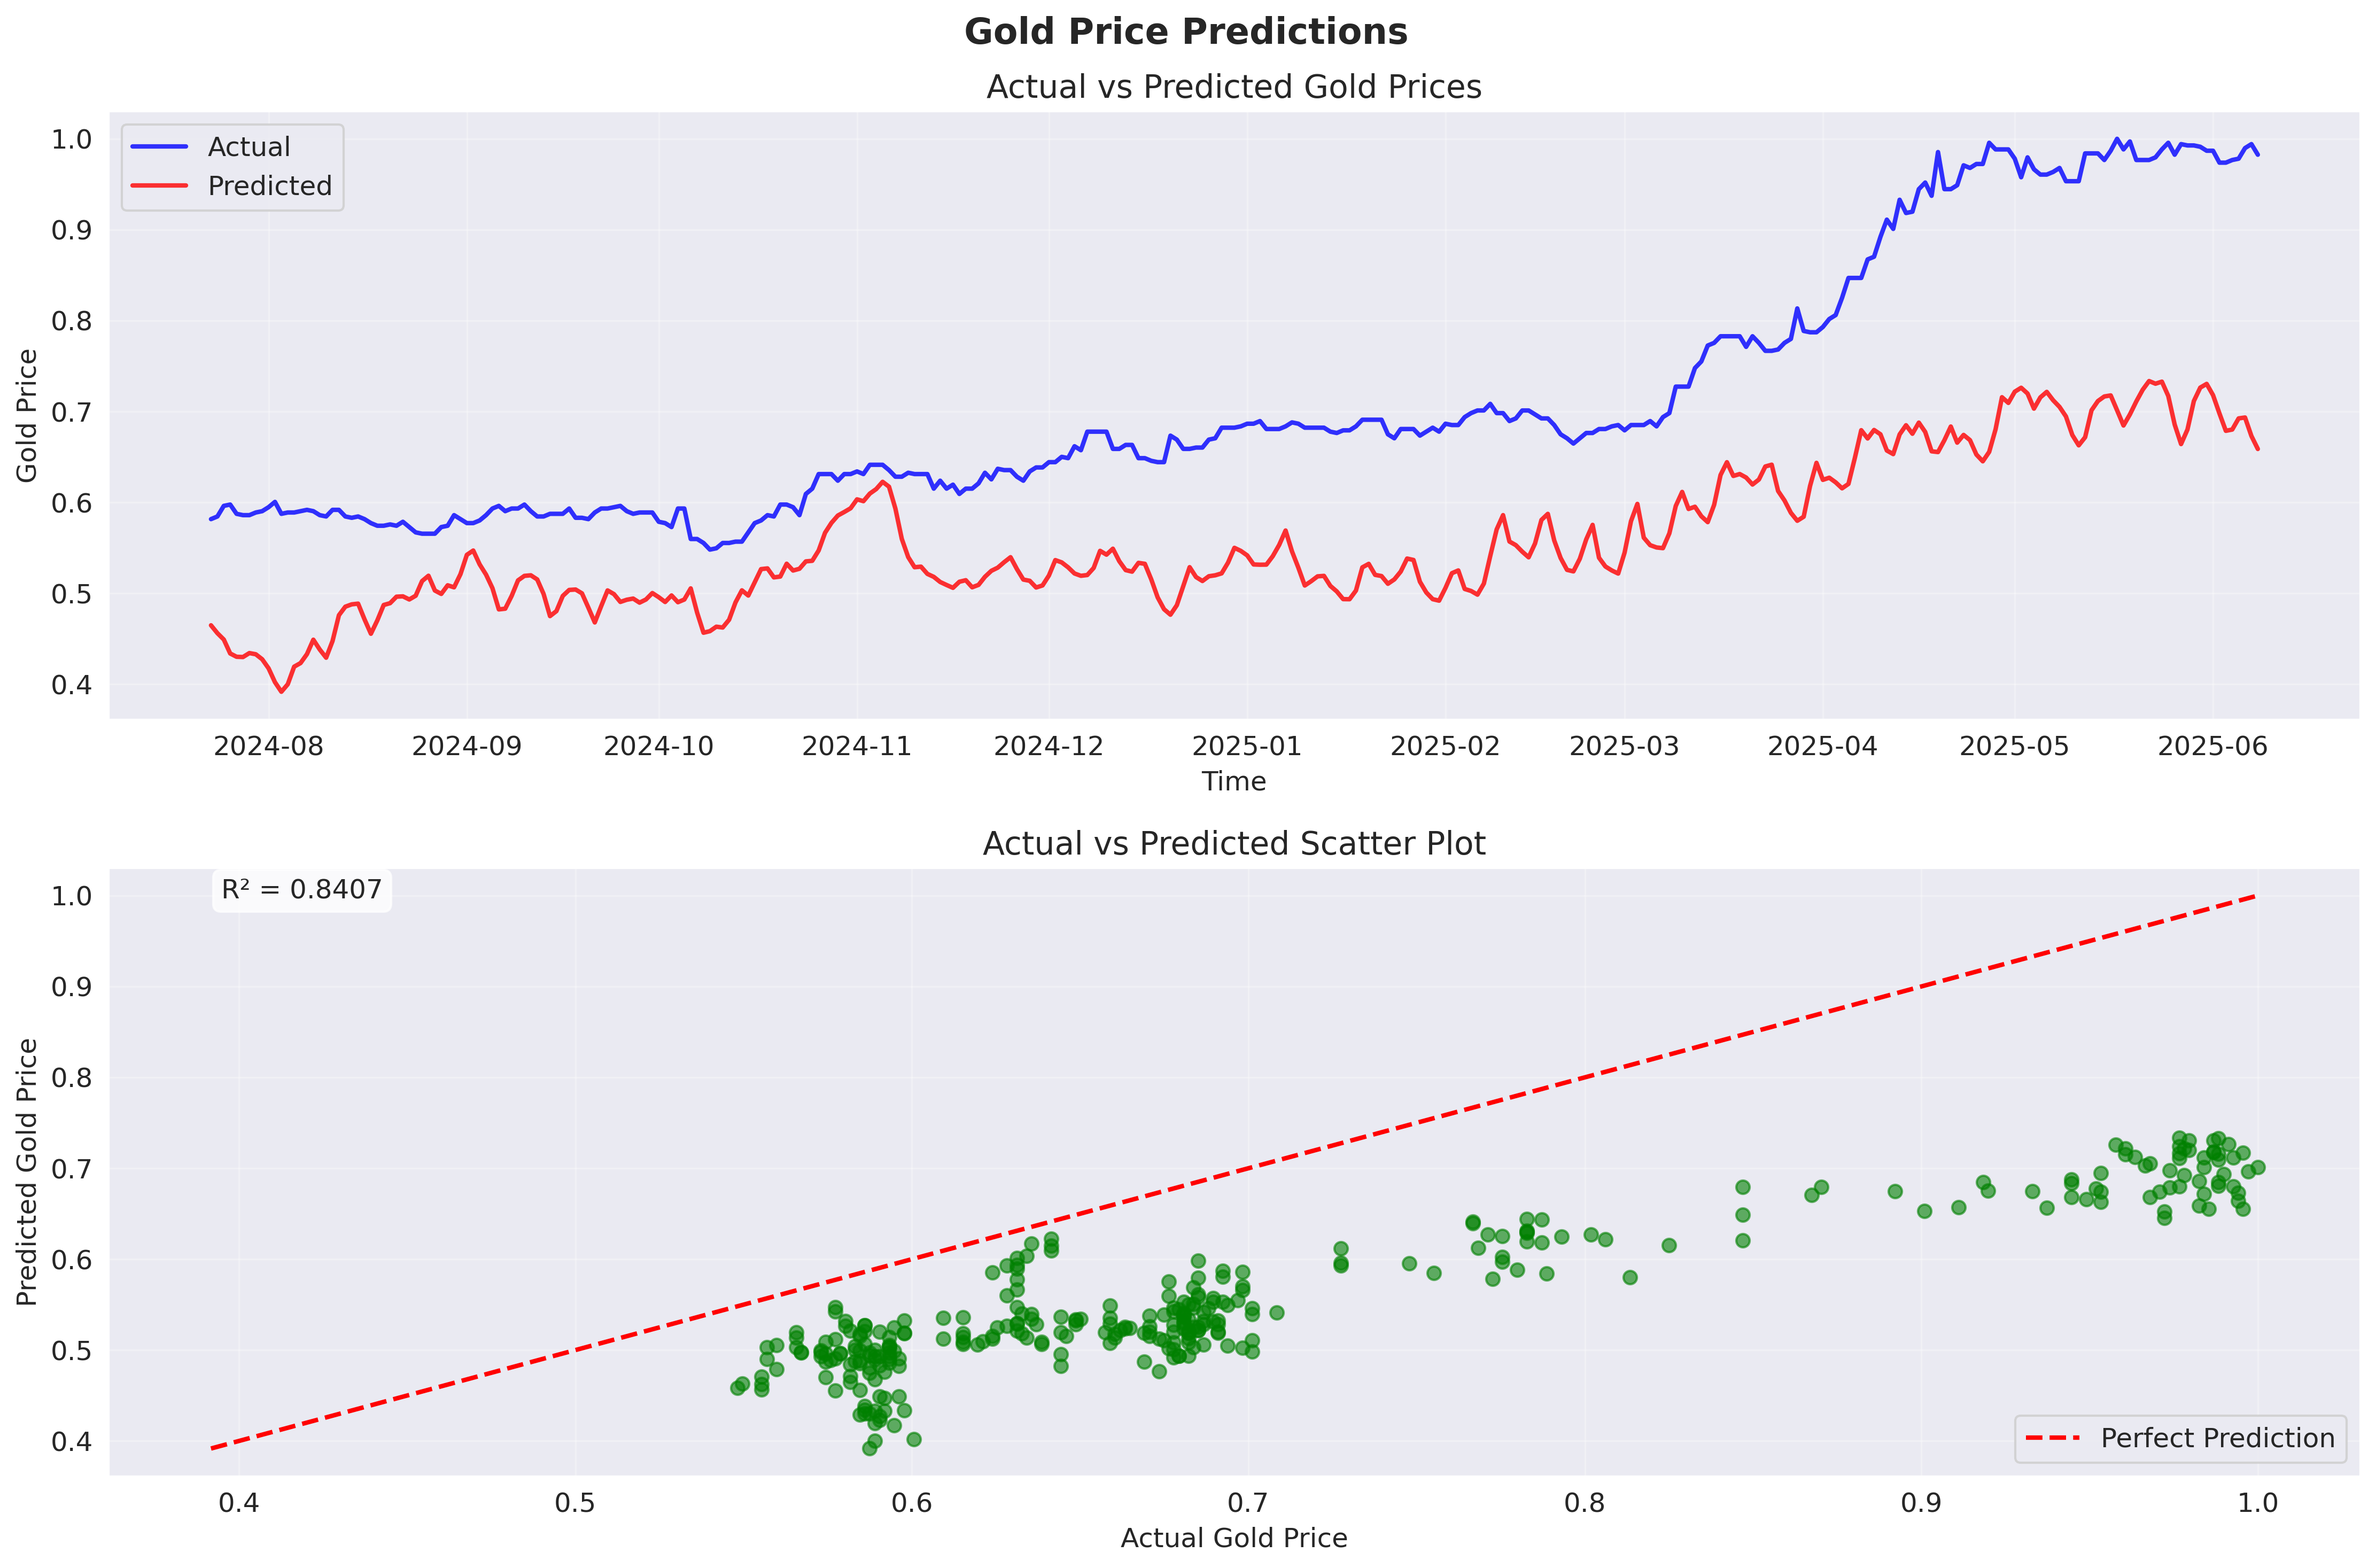
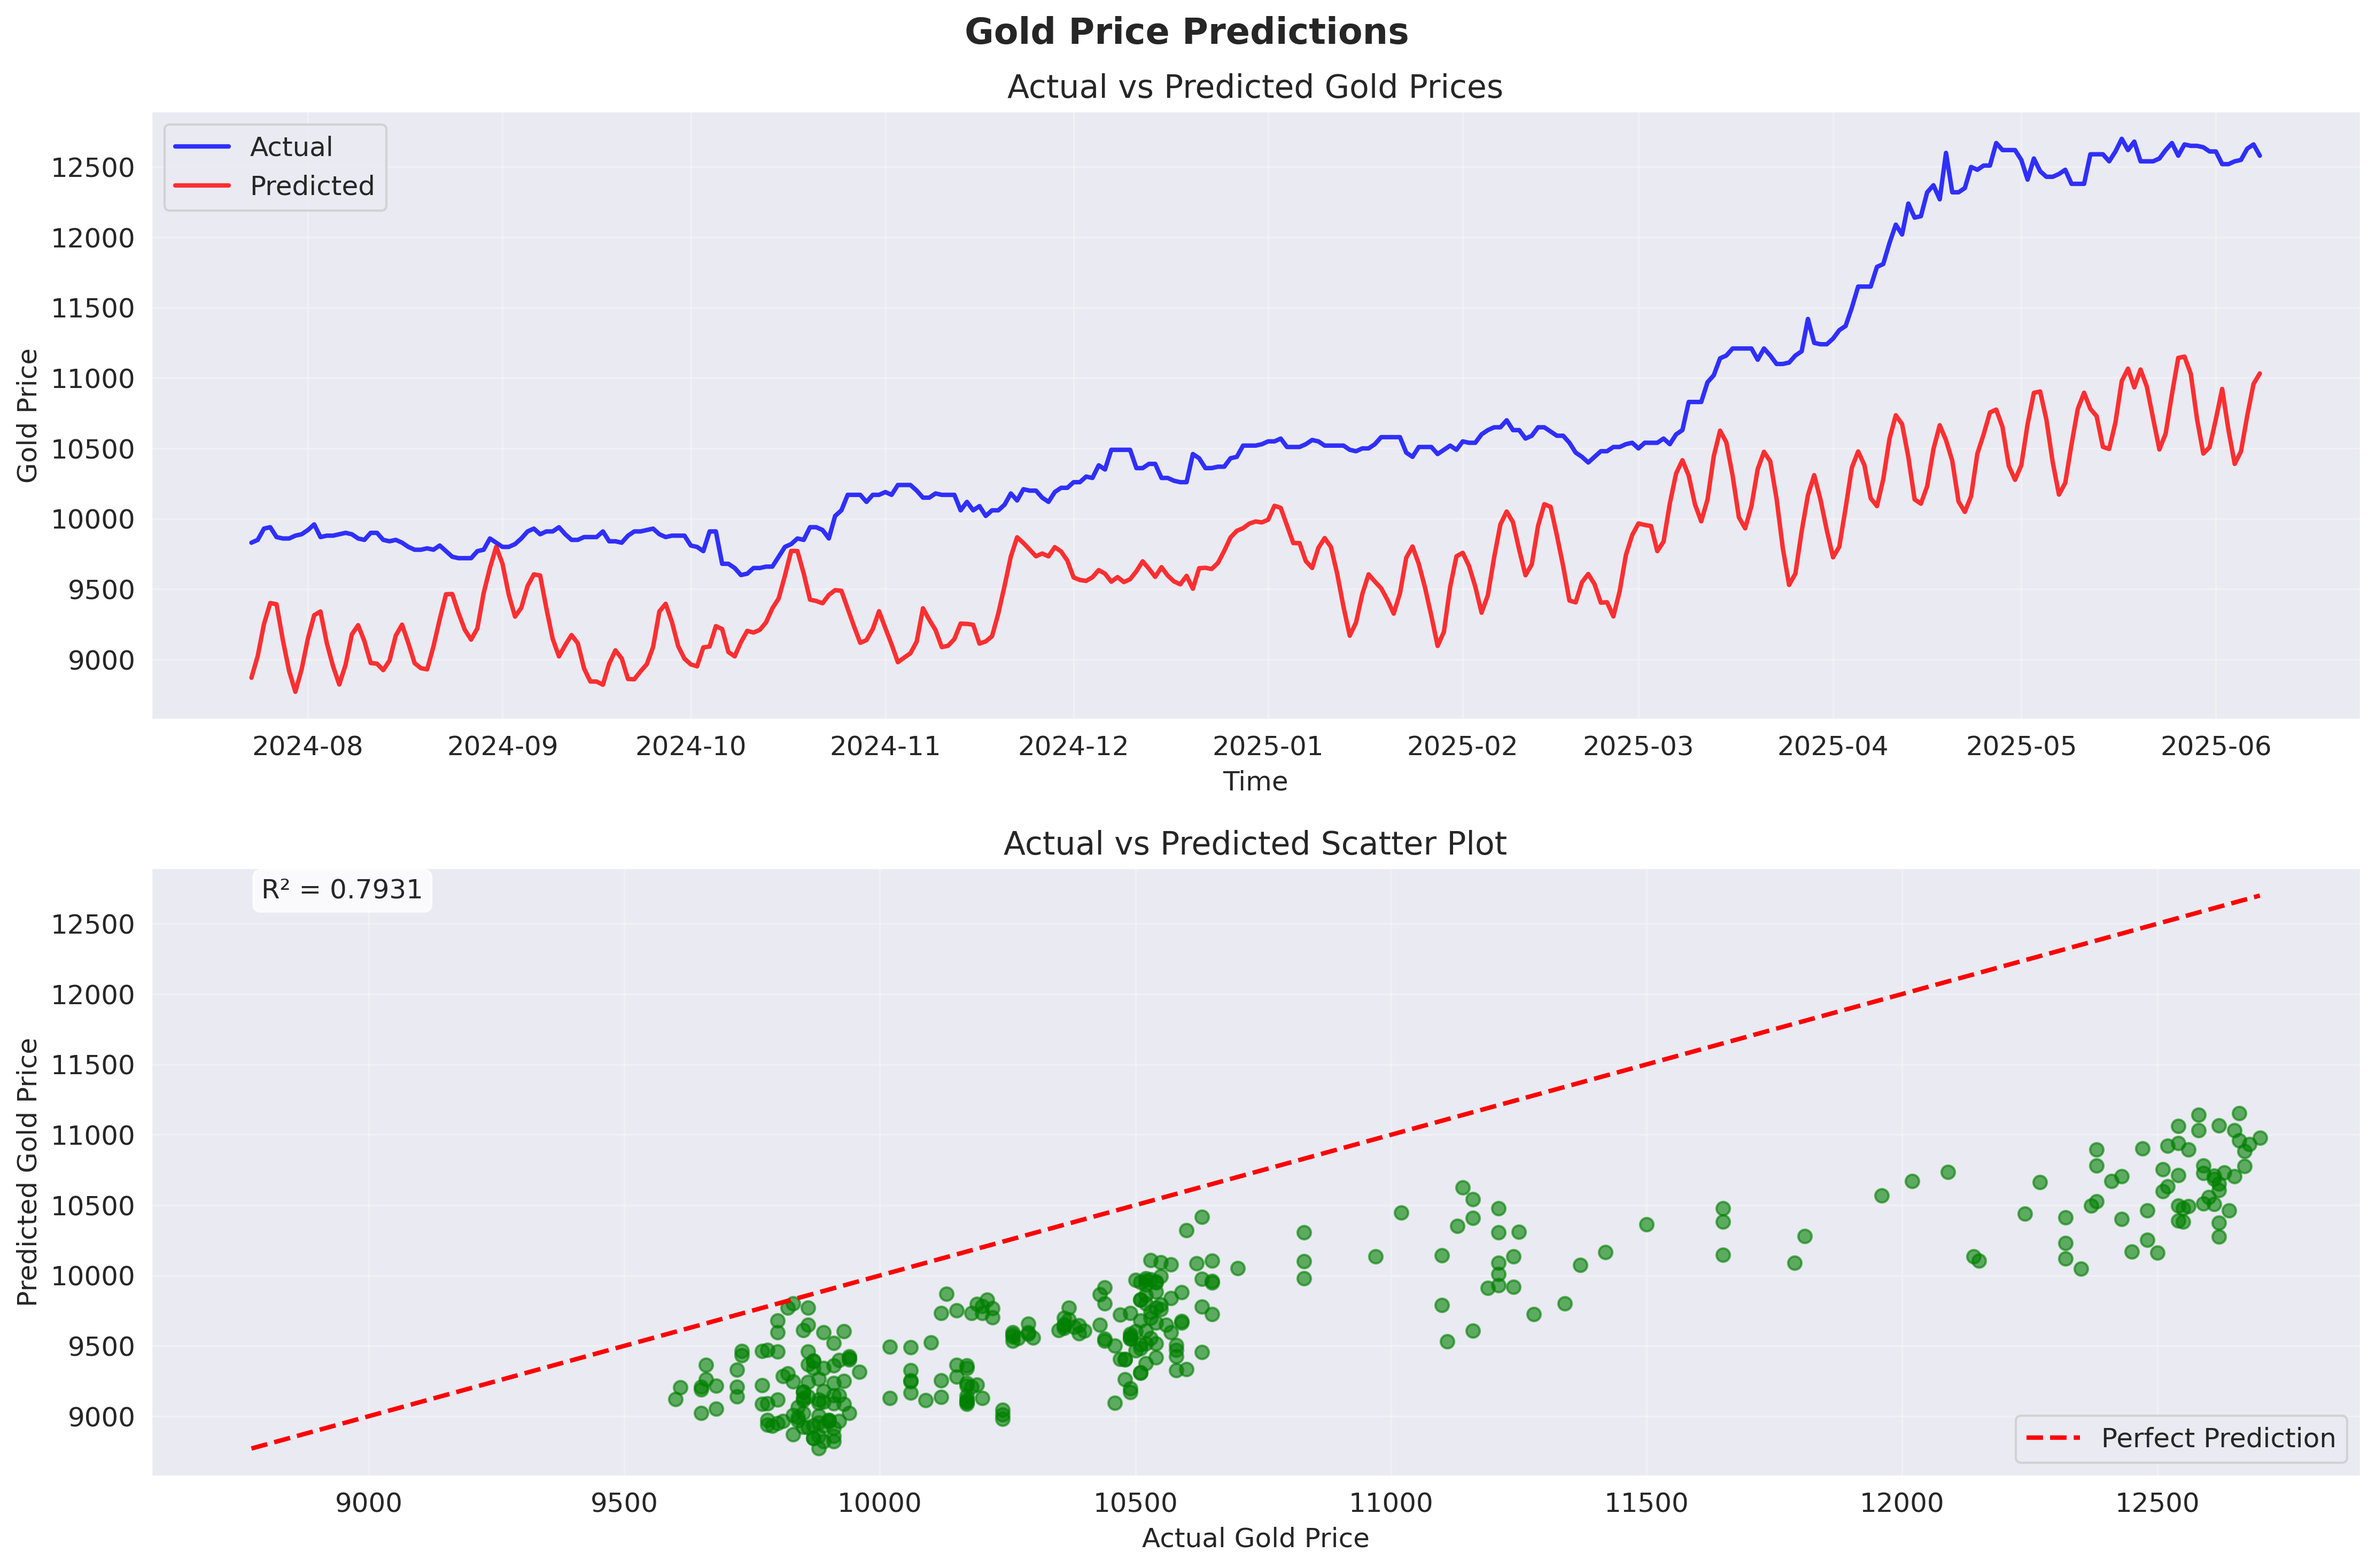
fix(pipeline): correct access to scaler_info in preprocessing_info for inverse transformation

diff --git a/main.py b/main.py
@@ -407,7 +407,7 @@ class GoldPredictionPipeline:
             
             # Inverse transform predictions and targets if preprocessing info is available
             if self.processed_data and 'preprocessing_info' in self.processed_data:
-                scaler_info = self.processed_data['preprocessing_info']
+                scaler_info = self.processed_data['preprocessing_info']['scaler_info']
                 actual = self.preprocessor.inverse_transform_predictions(self.test_data['y'], scaler_info)
                 predicted = self.preprocessor.inverse_transform_predictions(predictions, scaler_info)
             else:
@@ -584,7 +584,7 @@ class GoldPredictionPipeline:
             self.logger.debug(f"Predictions array shape before inverse transform: {predictions.shape}")
             
             if self.processed_data and 'preprocessing_info' in self.processed_data:
-                scaler_info = self.processed_data['preprocessing_info']
+                scaler_info = self.processed_data['preprocessing_info']['scaler_info']
                 predictions = self.preprocessor.inverse_transform_predictions(predictions, scaler_info)
                 self.logger.debug(f"Predictions shape after inverse transform: {predictions.shape}")
             else:
